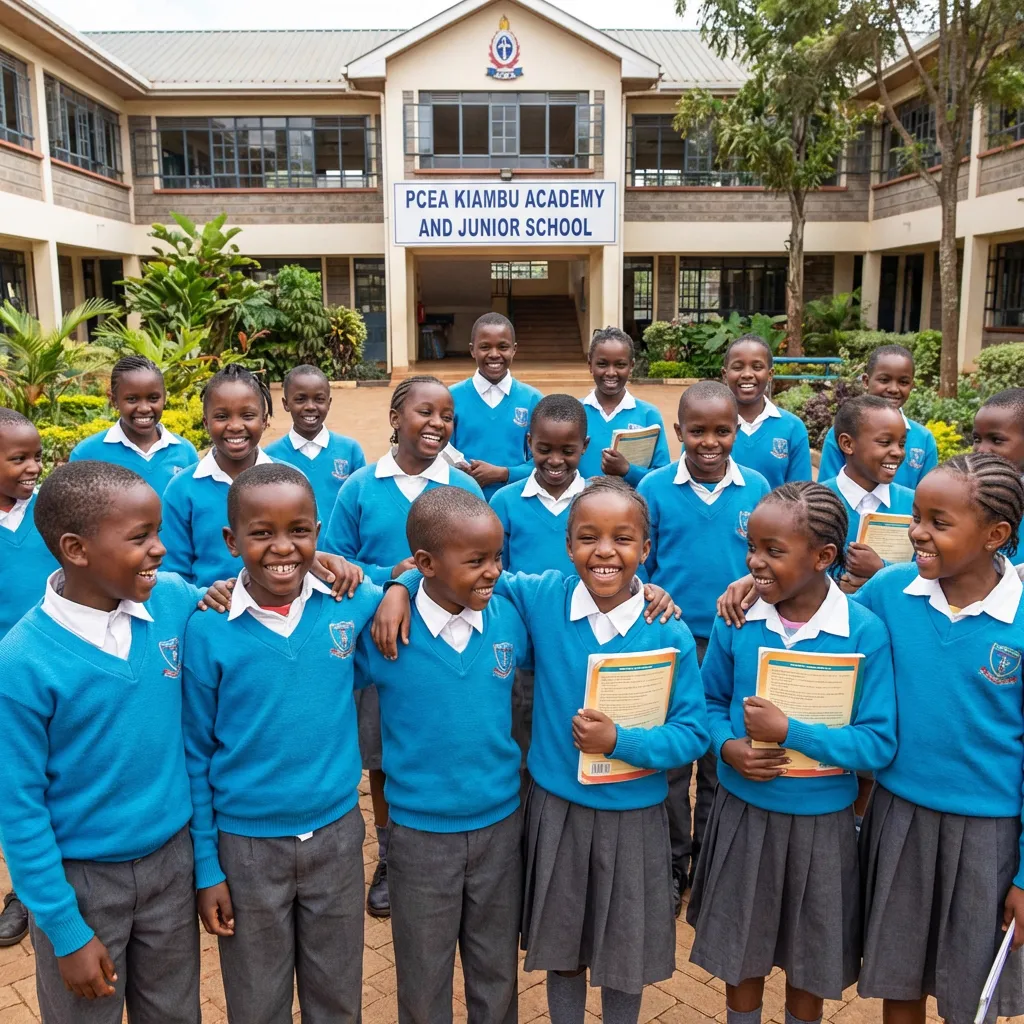
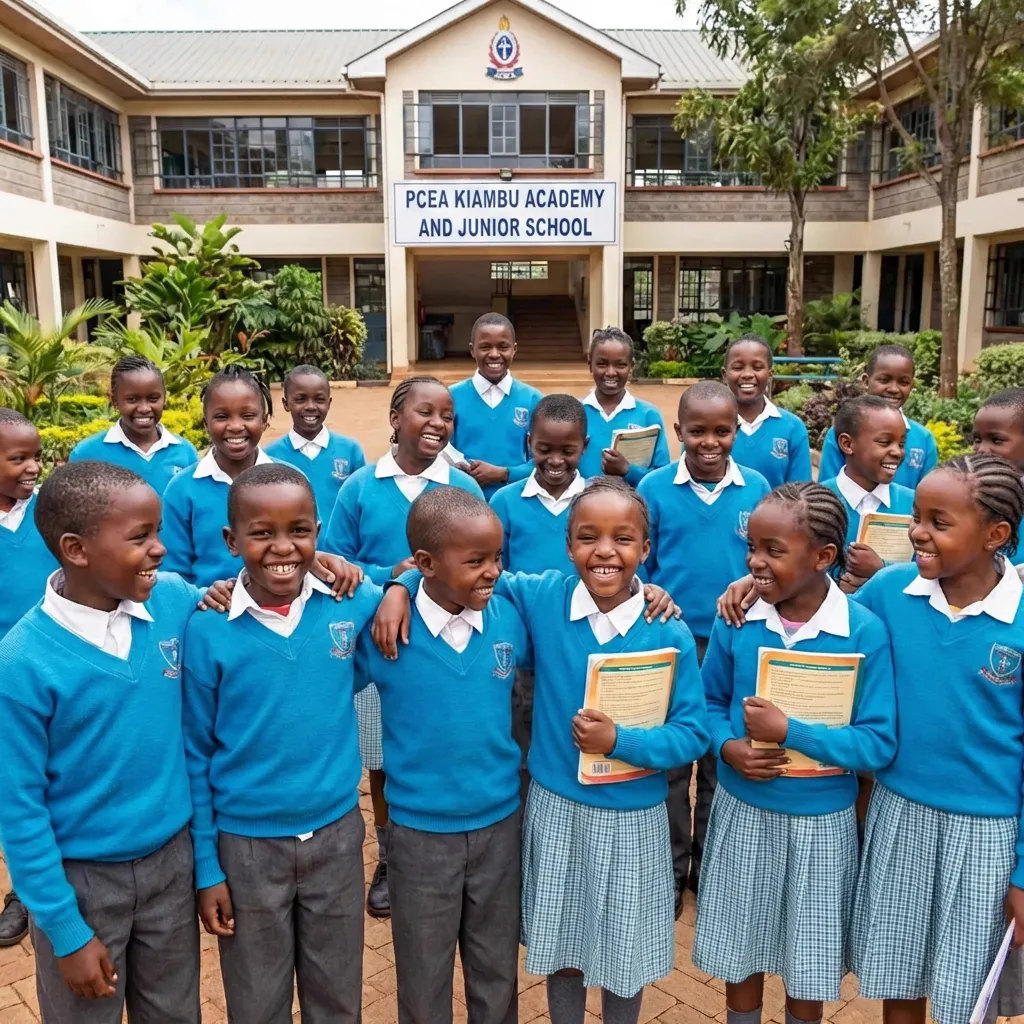
feat: Update uniforms to light blue check, add FB link, and update contact info

diff --git a/index.html b/index.html
@@ -341,7 +341,7 @@
                     </div>
                     <div class="info-item">
                         <span class="icon">📧</span>
-                        <p>pceakiambuacadamy@gmail.com</p>
+                        <p>academypceakiambu@gmail.com</p>
                     </div>
                     <div class="info-item">
                         <span class="icon">📍</span>
@@ -357,13 +357,28 @@
                 </div>
                 <div class="contact-form-wrapper" data-aos="fade-left">
                     <h3>Enquiry Form</h3>
-                    <form id="contactForm" class="enquiry-form">
-                        <div class="form-group"><input type="text" placeholder="Your Name" required></div>
-                        <div class="form-group"><input type="tel" placeholder="Phone Number" required></div>
-                        <div class="form-group"><input type="text" placeholder="Child's Grade" required></div>
-                        <div class="form-group"><textarea placeholder="Your Message/Question"></textarea></div>
-                        <button type="submit" class="btn btn-primary w-100">Submit Inquiry</button>
+                    <form id="contactForm" class="enquiry-form" onsubmit="sendToWhatsApp(event)">
+                        <div class="form-group"><input type="text" id="name" placeholder="Your Name" required></div>
+                        <div class="form-group"><input type="tel" id="phone" placeholder="Phone Number" required></div>
+                        <div class="form-group"><input type="text" id="grade" placeholder="Child's Grade" required>
+                        </div>
+                        <div class="form-group"><textarea id="message" placeholder="Your Message/Question"></textarea>
+                        </div>
+                        <button type="submit" class="btn btn-secondary">Send via WhatsApp</button>
                     </form>
+                    <script>
+                        function sendToWhatsApp(e) {
+                            e.preventDefault();
+                            const name = document.getElementById('name').value;
+                            const phone = document.getElementById('phone').value;
+                            const grade = document.getElementById('grade').value;
+                            const message = document.getElementById('message').value;
+
+                            const text = `*New Enquiry*\nName: ${name}\nPhone: ${phone}\nGrade: ${grade}\nMessage: ${message}`;
+                            const encodedText = encodeURIComponent(text);
+                            window.open(`https://wa.me/254706190282?text=${encodedText}`, '_blank');
+                        }
+                    </script>
                 </div>
             </div>
         </div>
@@ -380,8 +395,19 @@
                 <div class="footer-contact">
                     <h3>Contact Us</h3>
                     <p>Phone: +254 797285622 / 0706190282</p>
-                    <p>Email: pceakiambuacadamy@gmail.com</p>
+                    <p>Email: academypceakiambu@gmail.com</p>
                     <p>Location: Kiambu Town, Indian Bazaar, near PCEA Emmanuel Church Kangoya</p>
+                    <div class="social-links" style="margin-top: 15px;">
+                        <a href="https://www.facebook.com/profile.php?id=61587300880054" target="_blank"
+                            style="color: white; text-decoration: none; display: inline-flex; align-items: center; gap: 8px;">
+                            <svg xmlns="http://www.w3.org/2000/svg" width="24" height="24" viewBox="0 0 24 24"
+                                fill="currentColor">
+                                <path
+                                    d="M24 12.073c0-6.627-5.373-12-12-12s-12 5.373-12 12c0 5.99 4.388 10.954 10.125 11.854v-8.385H7.078v-3.47h3.047V9.43c0-3.007 1.792-4.669 4.533-4.669 1.312 0 2.686.235 2.686.235v2.953H15.83c-1.491 0-1.956.925-1.956 1.874v2.25h3.328l-.532 3.47h-2.796v8.385C19.612 23.027 24 18.062 24 12.073z" />
+                            </svg>
+                            <span>Follow us on Facebook</span>
+                        </a>
+                    </div>
                 </div>
                 <div class="footer-links">
                     <h3>Quick Links</h3>

diff --git a/about.html b/about.html
@@ -273,8 +273,19 @@
                 <div class="footer-contact">
                     <h3>Contact Us</h3>
                     <p>Phone: +254 797285622 / 0706190282</p>
-                    <p>Email: pceakiambuacadamy@gmail.com</p>
+                    <p>Email: academypceakiambu@gmail.com</p>
                     <p>Kiambu, Indian Bazaar, Kangoya</p>
+                    <div class="social-links" style="margin-top: 15px;">
+                        <a href="https://www.facebook.com/profile.php?id=61587300880054" target="_blank"
+                            style="color: white; text-decoration: none; display: inline-flex; align-items: center; gap: 8px;">
+                            <svg xmlns="http://www.w3.org/2000/svg" width="24" height="24" viewBox="0 0 24 24"
+                                fill="currentColor">
+                                <path
+                                    d="M24 12.073c0-6.627-5.373-12-12-12s-12 5.373-12 12c0 5.99 4.388 10.954 10.125 11.854v-8.385H7.078v-3.47h3.047V9.43c0-3.007 1.792-4.669 4.533-4.669 1.312 0 2.686.235 2.686.235v2.953H15.83c-1.491 0-1.956.925-1.956 1.874v2.25h3.328l-.532 3.47h-2.796v8.385C19.612 23.027 24 18.062 24 12.073z" />
+                            </svg>
+                            <span>Follow us on Facebook</span>
+                        </a>
+                    </div>
                 </div>
                 <div class="footer-links">
                     <h3>Quick Links</h3>
